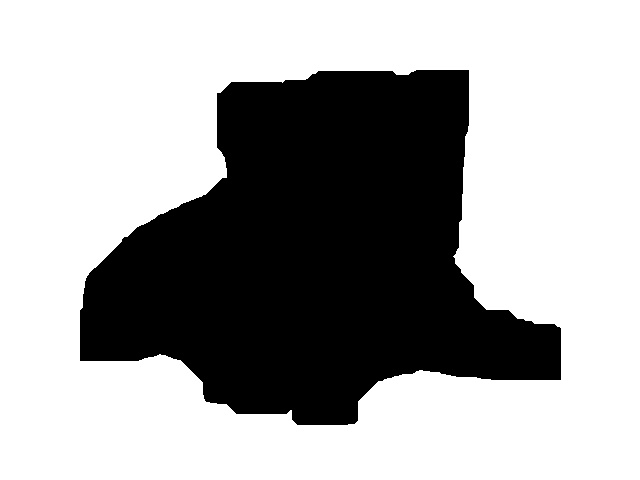
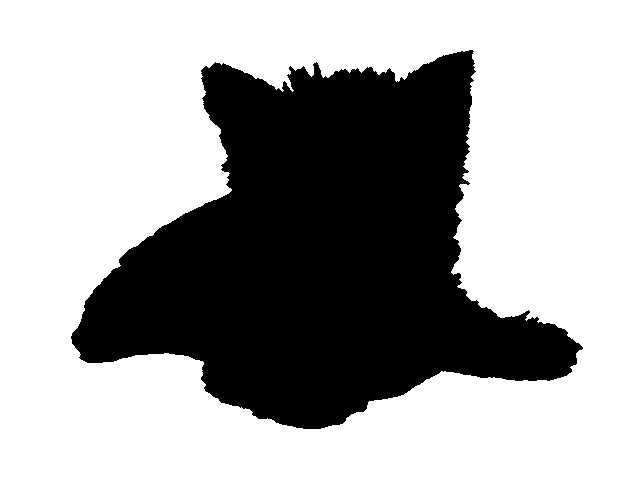
task3 finish

diff --git a/part2/task3.py b/part2/task3.py
@@ -1,29 +1,30 @@
 import cv2
 import numpy as np
-img1_src = cv2.imread('img/dog.jpg', 0)
+dogImage = cv2.imread('img/dog.jpg', 0)
 
 value = 150
 
-img_src = img1_src.copy()
+dogCopyImage = dogImage.copy()
 
-img_src[img1_src < value] = 0
-img_src[img1_src >= value] = 255
+dogCopyImage[dogImage < value] = 0
+dogCopyImage[dogImage >= value] = 255
 
-#cv2_imshow(img_src)
+toThreshold = cv2.threshold(dogImage, 200, 255, cv2.THRESH_BINARY)[1]
 
-img_tmp = cv2.Sobel(img_src, cv2.CV_32F, 1, 0, 3)
-img_dst = cv2.convertScaleAbs(img_tmp)
+element4 = np.array([[0, 1, 0], [1, 1, 1], [0, 1, 0]], np.uint8)
+element8 = np.array([[1, 1, 1], [1, 1, 1], [1, 1, 1]], np.uint8)
 
-element4 = np.array([[0, 1, 0], [1, 1, 1], [0, 1, 0]], np.uint8) # 4 近傍
-element8 = np.array([[1, 1, 1], [1, 1, 1], [1, 1, 1]], np.uint8) # 8 近傍
-n = 25
+toErode = cv2.erode(toThreshold, element4, iterations = 2)
+# toDilate = cv2.dilate(toThreshold, element8, iterations = 2)
 
-img_dst = cv2.erode(img_src, element4, iterations = 1)
-#img_dst = cv2.dilate(img_src, element8, iterations = 1)
 
-for i in range(n):
-  img_dst = cv2.dilate(img_dst, element4, iterations = 1)
-for i in range(n):
-  img_dst = cv2.erode(img_dst, element8, iterations = 1)
+toDilate = cv2.dilate(toErode, element4, iterations = 1)
+# toErode = cv2.erode(toDilate, element8, iterations = 1)
 
-cv2.imwrite('img/answer_3.jpg', img_dst)
+cv2.imwrite('img/answer_3.jpg', toDilate)
+
+# ここでは、Sobelフィルタを使ってエッジを検出し、convertScaleAbsでコントラストを上げることで
+# エッジを強調している。さらに、膨張処理または収縮処理を行うことで犬全体の輪郭を切り抜くような処理をおこなっている。
+# ここでは犬を綺麗に形どるために精密な切り取りを行うために第四近傍を用いる。
+# 今回では、n=2としている。iterationsで繰り返しおこなう回数を設定することができる。
+# また綺麗に形どるために、膨張処理を行った後に収縮処理を行うことで、犬の輪郭を切り抜いている。
